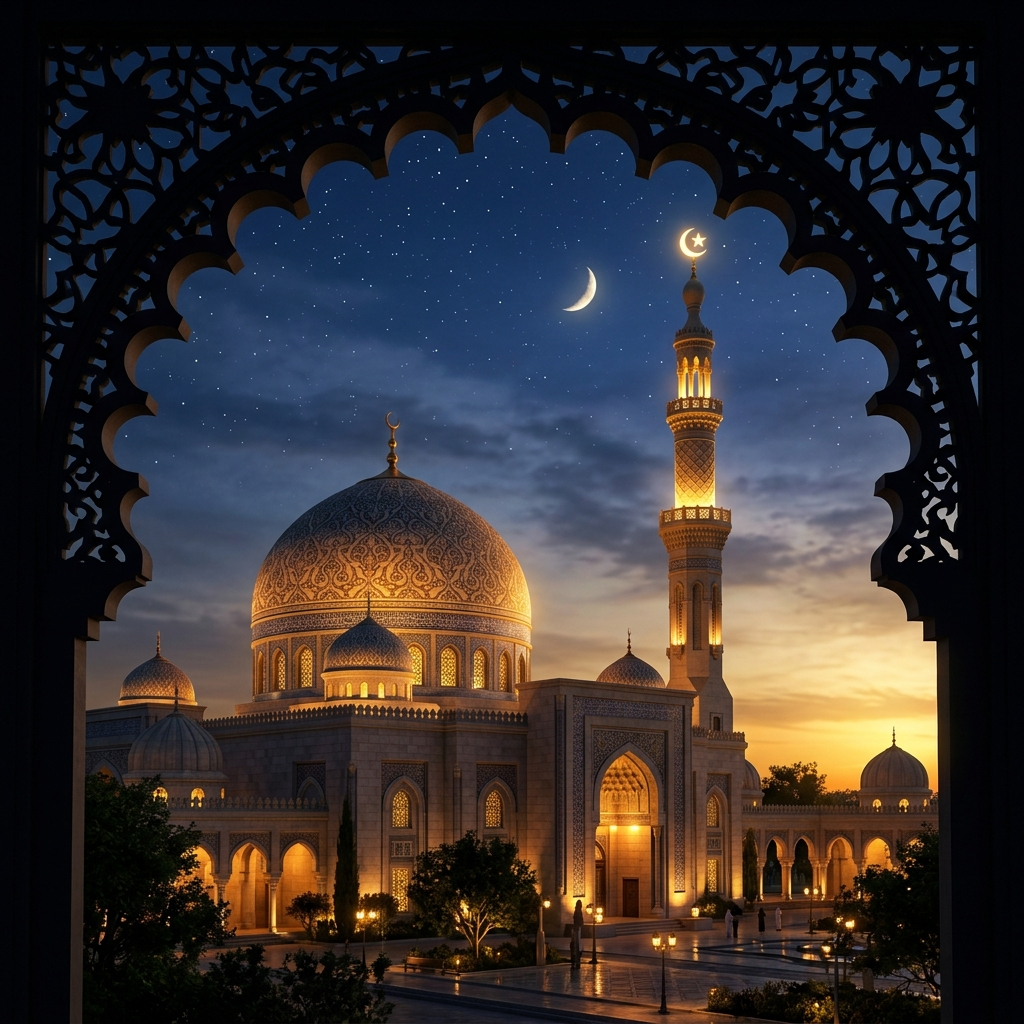
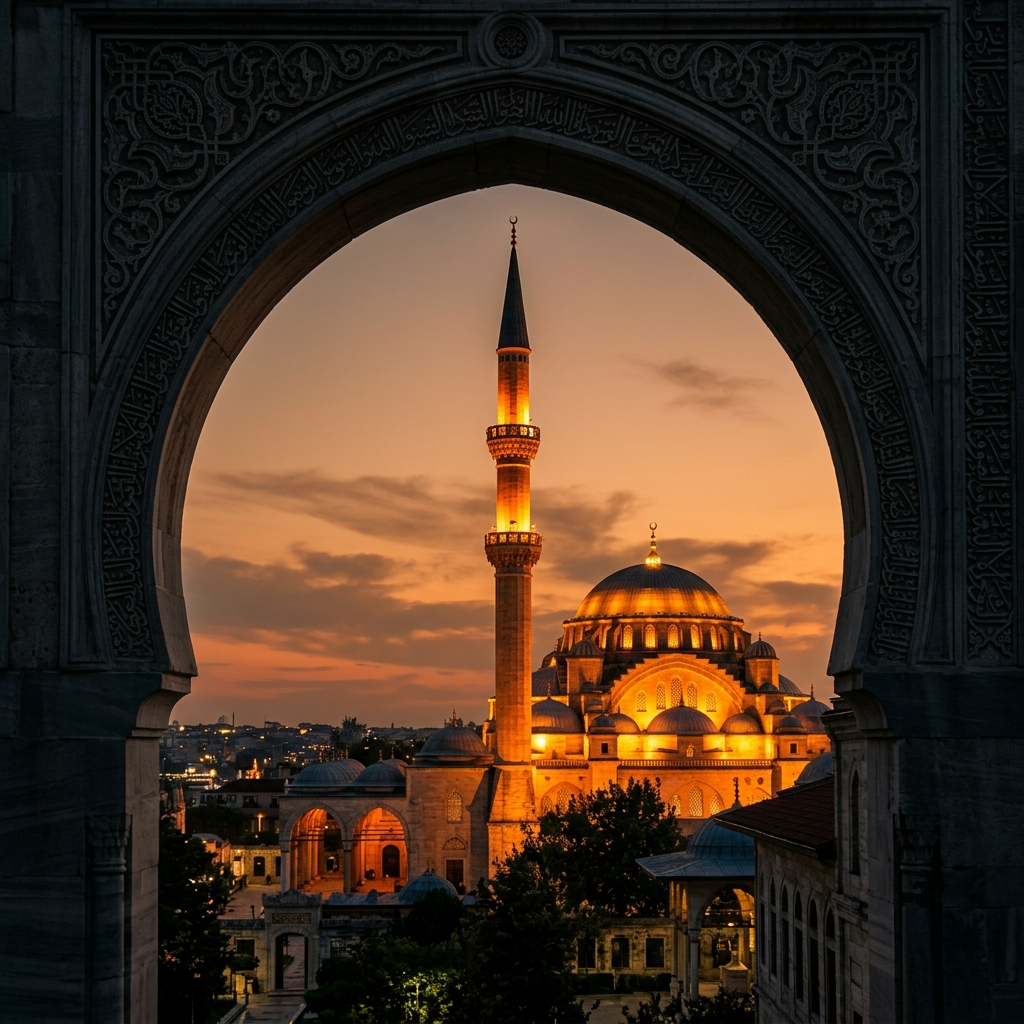
refactor: update hero background to subtle dark ornament and use warm sunset sore mosque arch photo

diff --git a/resources/views/livewire/pub/home.blade.php b/resources/views/livewire/pub/home.blade.php
@@ -4,17 +4,14 @@
 
 <div class="font-jakarta bg-background text-foreground antialiased selection:bg-amber-500 selection:text-stone-950">
     {{-- ══════════════ HERO SECTION — EXACT MATCH DESIGN ══════════════ --}}
-    <section class="hero-shell relative min-h-[92vh] sm:min-h-screen overflow-hidden flex flex-col justify-between">
-        {{-- Full bleed background photo --}}
-        <div class="hero-bg absolute inset-0 z-0 bg-cover bg-center bg-no-repeat transition-transform duration-1000 scale-105"
-             style="background-image: url('{{ $heroImage }}')"></div>
-
-        {{-- Gradient Overlays: Dark gradient on left to make text pop, subtle glow on architecture --}}
+    <section class="hero-shell relative min-h-[92vh] sm:min-h-screen overflow-hidden flex flex-col justify-between bg-stone-950">
+        {{-- Subtle Islamic geometric pattern & warm radial gradients background --}}
+        <div class="absolute inset-0 z-0 pointer-events-none opacity-20 bg-islamic-stars"></div>
         <div class="absolute inset-0 z-1 pointer-events-none"
              style="background:
-                linear-gradient(90deg, rgba(12,8,4,0.92) 0%, rgba(16,10,5,0.78) 45%, rgba(18,12,6,0.30) 75%, rgba(10,6,2,0.65) 100%),
-                linear-gradient(180deg, rgba(10,6,2,0.70) 0%, transparent 35%, rgba(12,8,4,0.95) 100%),
-                radial-gradient(ellipse 50% 50% at 20% 40%, rgba(217,119,6,0.18) 0%, transparent 70%);"></div>
+                radial-gradient(ellipse 60% 60% at 75% 30%, rgba(217,119,6,0.16) 0%, transparent 70%),
+                radial-gradient(ellipse 50% 50% at 20% 50%, rgba(180,83,9,0.14) 0%, transparent 65%),
+                linear-gradient(180deg, rgba(12,8,4,0.95) 0%, rgba(18,10,4,0.98) 100%);"></div>
 
         {{-- MAIN CONTENT CONTAINER: 2-Column layout matching reference screenshot --}}
         <div class="relative z-10 mx-auto w-full max-w-7xl px-4 sm:px-6 lg:px-8 pt-24 sm:pt-28 pb-36">
